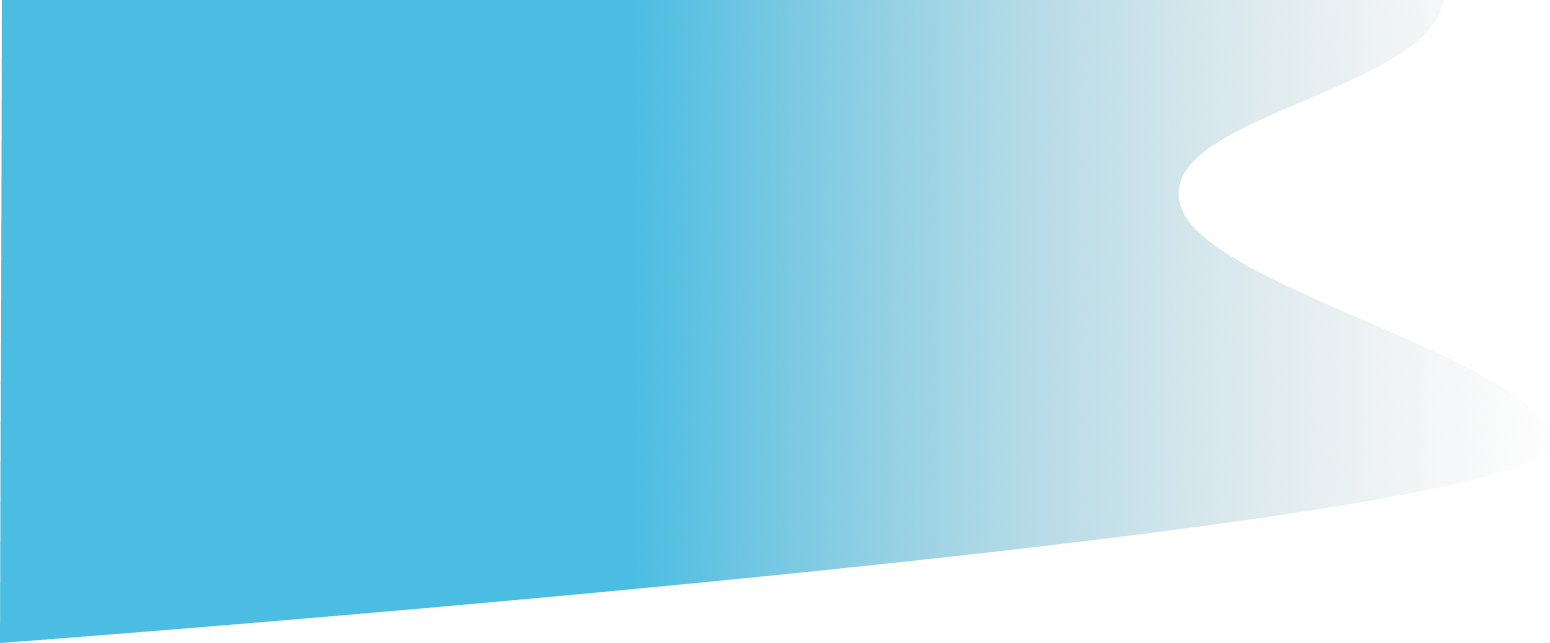
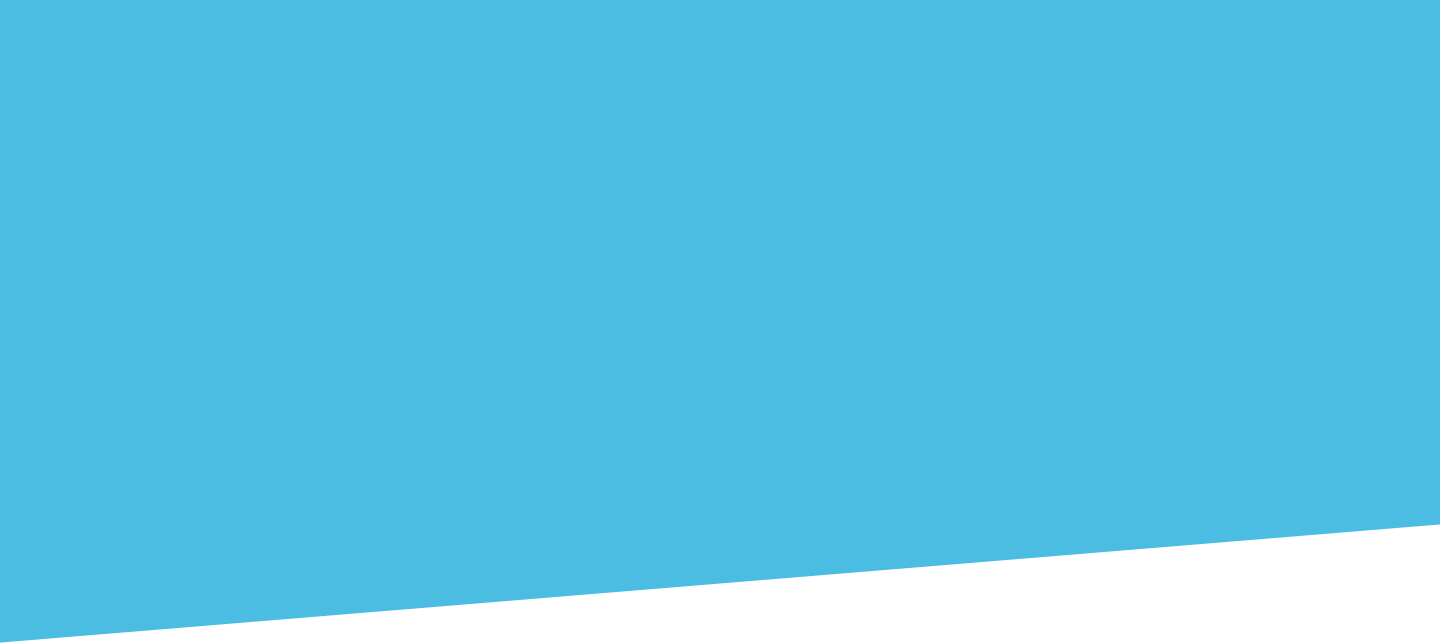
complete: Add rest of sections
It was added the rest of sections and carousel for images

diff --git a/web/src/components/Sobre/sobre.js b/web/src/components/Sobre/sobre.js
@@ -1,0 +1,57 @@
+export const Images = [
+	{
+		id: 1,
+		img_url: "/images/Carlos.png",
+		sobre:
+			"Somos um time de desenvolvedores que desejam mudar o mundo utilizando a tecnologia\
+		como ferramenta para a resolução dos diversos problemas que a sociedade e a vida moderna\
+		nos apresentam. Temos como valores solidariedade, preservação do meio ambiente, igualdade e \
+		evolução contínua dos nossos saberes, pois uma mente aberta tem o poder de \
+		transformar o mundo!.",
+		skill: "Antônio Carlos Desenvolvedor Fullstack"
+	},
+	{
+		id: 2,
+		img_url: "/images/Esau.png",
+		sobre:
+			"Somos um time de desenvolvedores que desejam mudar o mundo utilizando a tecnologia\
+		como ferramenta para a resolução dos diversos problemas que a sociedade e a vida moderna\
+		nos apresentam. Temos como valores solidariedade, preservação do meio ambiente, igualdade e \
+		evolução contínua dos nossos saberes, pois uma mente aberta tem o poder de \
+		transformar o mundo!.",
+		skill: "Esaú Morais Desenvolvedor Fullstack"
+	},
+	{
+		id: 3,
+		img_url: "/images/Felipe.png",
+		sobre:
+			"Somos um time de desenvolvedores que desejam mudar o mundo utilizando a tecnologia\
+			como ferramenta para a resolução dos diversos problemas que a sociedade e a vida moderna\
+			nos apresentam. Temos como valores solidariedade, preservação do meio ambiente, igualdade e \
+			evolução contínua dos nossos saberes, pois uma mente aberta tem o poder de \
+			transformar o mundo!.",
+		skill: "Felipe Candian Designer e Vídeo do Pitch"
+	},
+	{
+		id: 4,
+		img_url: "/images/Paulo.png",
+		sobre:
+			"Somos um time de desenvolvedores que desejam mudar o mundo utilizando a tecnologia\
+			como ferramenta para a resolução dos diversos problemas que a sociedade e a vida moderna\
+			nos apresentam. Temos como valores solidariedade, preservação do meio ambiente, igualdade e \
+			evolução contínua dos nossos saberes, pois uma mente aberta tem o poder de \
+			transformar o mundo!.",
+		skill: "Paulo Victor Designer e Desenvolvedor Web"
+	},
+	{
+		id: 5,
+		img_url: "/images/Rodrigo.png",
+		sobre:
+			"Somos um time de desenvolvedores que desejam mudar o mundo utilizando a tecnologia\
+			como ferramenta para a resolução dos diversos problemas que a sociedade e a vida moderna\
+			nos apresentam. Temos como valores solidariedade, preservação do meio ambiente, igualdade e \
+			evolução contínua dos nossos saberes, pois uma mente aberta tem o poder de \
+			transformar o mundo!.",
+		skill: "Rodrigo Temóteo Gestor do Projeto e Marketing"
+	}
+];

diff --git a/web/src/styles/global.js b/web/src/styles/global.js
@@ -44,47 +44,10 @@ const Global = createGlobalStyle`
     color: #FFF
   }
 
-	::-webkit-input-placeholder {
-		/* Chrome/Opera/Safari */
-		font-family: Poppins;
-		font-style: normal;
-		font-weight: normal;
-		font-size: 16px;
-		line-height: 28px;
-		color: #1da8d5;
-		opacity: 0.6;
-	}
-	::-moz-placeholder {
-		/* Firefox 19+ */
-		font-family: Poppins;
-		font-style: normal;
-		font-weight: normal;
-		font-size: 16px;
-		line-height: 28px;
-		color: #1da8d5;
-		opacity: 0.6;
-	}
-	:-ms-input-placeholder {
-		/* IE 10+ */
-		font-family: Poppins;
-		font-style: normal;
-		font-weight: normal;
-		font-size: 16px;
-		line-height: 28px;
-		color: #1da8d5;
-		opacity: 0.6;
-	}
-	:-moz-placeholder {
-		/* Firefox 18- */
-		font-family: Poppins;
-		font-style: normal;
-		font-weight: normal;
-		font-size: 16px;
-		line-height: 28px;
-		color: #1da8d5;
-		opacity: 0.6;
-	}
-  
+  .rec-carousel-wrapper {
+    height: unset
+  }
+
   @keyframes fadeInOpacity {
     0% {
       opacity: 0;

diff --git a/web/src/components/Sobre/index.js b/web/src/components/Sobre/index.js
@@ -1,0 +1,47 @@
+import React from "react";
+import Carousel from "react-elastic-carousel";
+
+import { Images } from "./sobre";
+import { SubTitle } from "../main";
+
+const breakPoints = [
+	{ width: 1, itemsToShow: 1 },
+	{ width: 550, itemsToShow: 1 },
+	{ width: 768, itemsToShow: 1 },
+	{ width: 1200, itemsToShow: 1 }
+];
+
+const Container = {
+	display: "flex",
+	alignItems: "center"
+};
+
+const Avatar = {
+	width: 66,
+	height: 66,
+	margin: "0 1em 0 0"
+};
+
+function SobreCarousel() {
+	return (
+		<Carousel
+			breakPoints={breakPoints}
+			verticalMode={true}
+			showArrows={false}
+			enableAutoPlay={true}
+			autoPlaySpeed={6000}
+		>
+			{Images.map((image) => (
+				<div key={image.id}>
+					<SubTitle primary="true">{image.sobre}</SubTitle>
+					<div style={Container}>
+						<img src={image.img_url} alt="Imagem" style={Avatar} />
+						<span>{image.skill}</span>
+					</div>
+				</div>
+			))}
+		</Carousel>
+	);
+}
+
+export default SobreCarousel;

diff --git a/web/src/pages/Sections/section3.js b/web/src/pages/Sections/section3.js
@@ -2,6 +2,7 @@ import React from "react";
 import styled from "styled-components";
 
 import { Section, Title, SubTitle, Col } from "../../components/main";
+import ImgCarousel from "../../components/Sobre";
 
 const Image = styled.div`
 	width: 100%;
@@ -17,13 +18,7 @@ const SectionThree = () => {
 		<Section id="sobre" primary="true" secondary="true">
 			<Col>
 				<Title primary="true">Sobre</Title>
-				<SubTitle primary="true">
-					Lorem Ipsum is simply dummy text of the printing and typesetting
-					industry. Lorem Ipsum has been the industry's standard dummy text ever
-					since the 1500sLorem Ipsum. Lorem Ipsum is simply dummy text of the
-					printing and typesetting industry. Lorem Ipsum has been the industry's
-					standard dummy text ever since the 1500sLorem Ipsum.
-				</SubTitle>
+				<ImgCarousel />
 			</Col>
 			<Col>
 				<Image />

diff --git a/web/public/index.html b/web/public/index.html
@@ -11,7 +11,12 @@
 			property="og:description"
 			content="Solução para o Hackathon Campus Party"
 		/>
-		<link rel="manifest" href="%PUBLIC_URL%/manifest.json" />
+		<meta property="og:image" content="./images/Favicon.png" />
+		<meta property="og:image:alt" content="Orlis" />
+		<meta property="og:image:width" content="64" />
+		<meta property="og:image:height" content="64" />
+		<link rel="shortcut icon" href="./images/Favicon.png" type="image/png" />
+		<link rel="manifest" href="./manifest.json" />
 		<link
 			href="https://fonts.googleapis.com/css2?family=Poppins&display=swap"
 			rel="stylesheet"
@@ -20,7 +25,7 @@
 			href="https://fonts.googleapis.com/css2?family=Montserrat:wght@500&display=swap"
 			rel="stylesheet"
 		/>
-		<title>Hackathon Campus Party</title>
+		<title>Projeto Orlis</title>
 	</head>
 
 	<body>

diff --git a/web/src/pages/Sections/section1.js b/web/src/pages/Sections/section1.js
@@ -16,11 +16,14 @@ const SectionOne = () => {
 	return (
 		<Section id="home" primary="true">
 			<Col>
-				<Title>lorem ipsum</Title>
+				<Title>Orbis</Title>
 				<SubTitle>
-					Lorem Ipsum is simply dummy text of the printing and typesetting
-					industry. Lorem Ipsum has been the industry's standard dummy text ever
-					since the 1500s
+					O projeto Orbis é uma solução com o objetivo de auxiliar através de
+					consultorias para as empresas implementarem o ODS 17 que é núcleo que
+					liga todos os ODS e trata das parcerias e implementações, conseguindo
+					assim impactar a sociedade, o meio ambiente e proporcionar as
+					vantagens que as empresas necessitam para se adequar a esse novo
+					mercado moderno.
 				</SubTitle>
 				<Button to="analise">Faça sua análise</Button>
 			</Col>

diff --git a/web/src/pages/Sections/section2.js b/web/src/pages/Sections/section2.js
@@ -9,11 +9,10 @@ const SectionTwo = () => {
 			<Col>
 				<Title primary="true">O que são ODS?</Title>
 				<SubTitle primary="true">
-					Lorem Ipsum is simply dummy text of the printing and typesetting
-					industry. Lorem Ipsum has been the industry's standard dummy text ever
-					since the 1500sLorem Ipsum. Lorem Ipsum is simply dummy text of the
-					printing and typesetting industry. Lorem Ipsum has been the industry's
-					standard dummy text ever since the 1500sLorem Ipsum.
+					Os Objetivos de Desenvolvimento Sustentável (ODS) são uma agenda
+					mundial adotada durante a Cúpula das Nações Unidas sobre o
+					Desenvolvimento Sustentável em setembro de 2015 composta por 17
+					objetivos e 169 metas a serem atingidos até 2030.
 				</SubTitle>
 			</Col>
 			<Col>

diff --git a/web/src/pages/Sections/section4.js b/web/src/pages/Sections/section4.js
@@ -12,9 +12,18 @@ const Image = styled.div`
 	animation: fadeInOpacity 300ms ease-in;
 `;
 
+const Bg = styled(Section)`
+	background: url("/images/Bg 4.png") no-repeat;
+
+	@media (max-width: 980px) {
+		background: unset;
+		background-color: #4bbde2;
+	}
+`;
+
 const SectionFour = () => {
 	return (
-		<Section id="vantagens" primary="true">
+		<Bg id="vantagens" primary="true">
 			<Col>
 				<Title>Vantagens</Title>
 				<SubTitle>
@@ -28,7 +37,7 @@ const SectionFour = () => {
 			<Col>
 				<Image />
 			</Col>
-		</Section>
+		</Bg>
 	);
 };
 

diff --git a/web/src/components/NavBar/main.js b/web/src/components/NavBar/main.js
@@ -8,13 +8,18 @@ export const Nav = styled.nav`
 	display: flex;
 	align-items: center;
 	justify-content: space-evenly;
+
+	@media (max-width: 980px) {
+		justify-content: space-between;
+	}
 `;
 
 export const Logo = styled.div`
-	margin: 0 0 0 1em;
-	width: 182px;
-	height: 102.92px;
-	background: url("/images/Logo.svg");
+	width: 167px;
+	height: 167px;
+	background: url("/images/Orbis.png");
+	background-position: center center;
+	background-size: contain;
 `;
 
 /* Styled SideBar */

diff --git a/web/src/components/Carousel/index.js b/web/src/components/Carousel/index.js
@@ -11,7 +11,12 @@ const breakPoints = [
 
 function ImgCarousel() {
 	return (
-		<Carousel breakPoints={breakPoints}>
+		<Carousel
+			breakPoints={breakPoints}
+			showArrows={false}
+			enableAutoPlay={true}
+			autoPlaySpeed={3000}
+		>
 			{Images.map((image) => (
 				<div key={image.id}>
 					<img src={image.img_url} alt="Imagem" />

diff --git a/web/src/components/NavBar/navbar.js b/web/src/components/NavBar/navbar.js
@@ -1,14 +1,14 @@
 import React from "react";
 
-import { Nav, Logo, Item } from "./main";
+import { Nav, Logo } from "./main";
 import Burger from "./burger";
 
 const NavBar = () => {
 	return (
 		<Nav>
-			<Item href="#">
+			<a href="/">
 				<Logo />
-			</Item>
+			</a>
 			<Burger />
 		</Nav>
 	);

diff --git a/web/src/components/main.js b/web/src/components/main.js
@@ -22,7 +22,7 @@ export const Section = styled.div`
 
 export const Main = styled.div`
 	height: calc(100% - 0%);
-	background-color: #4bbde2;
+	background: url("/images/Bg.png") no-repeat;
 
 	@media (max-width: 980px) {
 		height: auto;
